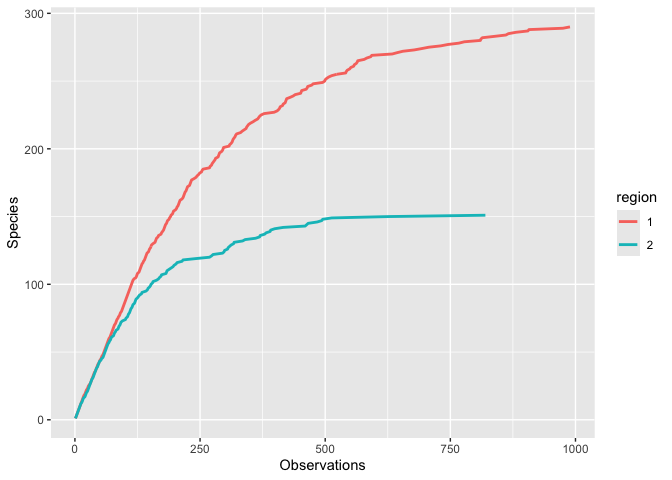
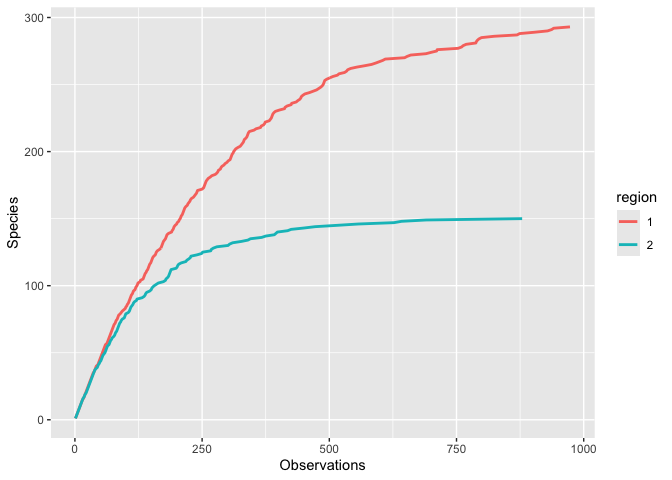
Code of conduct

diff --git a/CODE_OF_CONDUCT.md b/CODE_OF_CONDUCT.md
@@ -1,0 +1,126 @@
+# Contributor Covenant Code of Conduct
+
+## Our Pledge
+
+We as members, contributors, and leaders pledge to make participation in our
+community a harassment-free experience for everyone, regardless of age, body
+size, visible or invisible disability, ethnicity, sex characteristics, gender
+identity and expression, level of experience, education, socio-economic status,
+nationality, personal appearance, race, caste, color, religion, or sexual
+identity and orientation.
+
+We pledge to act and interact in ways that contribute to an open, welcoming,
+diverse, inclusive, and healthy community.
+
+## Our Standards
+
+Examples of behavior that contributes to a positive environment for our
+community include:
+
+* Demonstrating empathy and kindness toward other people
+* Being respectful of differing opinions, viewpoints, and experiences
+* Giving and gracefully accepting constructive feedback
+* Accepting responsibility and apologizing to those affected by our mistakes,
+  and learning from the experience
+* Focusing on what is best not just for us as individuals, but for the overall
+  community
+
+Examples of unacceptable behavior include:
+
+* The use of sexualized language or imagery, and sexual attention or advances of
+  any kind
+* Trolling, insulting or derogatory comments, and personal or political attacks
+* Public or private harassment
+* Publishing others' private information, such as a physical or email address,
+  without their explicit permission
+* Other conduct which could reasonably be considered inappropriate in a
+  professional setting
+
+## Enforcement Responsibilities
+
+Community leaders are responsible for clarifying and enforcing our standards of
+acceptable behavior and will take appropriate and fair corrective action in
+response to any behavior that they deem inappropriate, threatening, offensive,
+or harmful.
+
+Community leaders have the right and responsibility to remove, edit, or reject
+comments, commits, code, wiki edits, issues, and other contributions that are
+not aligned to this Code of Conduct, and will communicate reasons for moderation
+decisions when appropriate.
+
+## Scope
+
+This Code of Conduct applies within all community spaces, and also applies when
+an individual is officially representing the community in public spaces.
+Examples of representing our community include using an official e-mail address,
+posting via an official social media account, or acting as an appointed
+representative at an online or offline event.
+
+## Enforcement
+
+Instances of abusive, harassing, or otherwise unacceptable behavior may be
+reported to the community leaders responsible for enforcement at [email redacted]. 
+All complaints will be reviewed and investigated promptly and fairly.
+
+All community leaders are obligated to respect the privacy and security of the
+reporter of any incident.
+
+## Enforcement Guidelines
+
+Community leaders will follow these Community Impact Guidelines in determining
+the consequences for any action they deem in violation of this Code of Conduct:
+
+### 1. Correction
+
+**Community Impact**: Use of inappropriate language or other behavior deemed
+unprofessional or unwelcome in the community.
+
+**Consequence**: A private, written warning from community leaders, providing
+clarity around the nature of the violation and an explanation of why the
+behavior was inappropriate. A public apology may be requested.
+
+### 2. Warning
+
+**Community Impact**: A violation through a single incident or series of
+actions.
+
+**Consequence**: A warning with consequences for continued behavior. No
+interaction with the people involved, including unsolicited interaction with
+those enforcing the Code of Conduct, for a specified period of time. This
+includes avoiding interactions in community spaces as well as external channels
+like social media. Violating these terms may lead to a temporary or permanent
+ban.
+
+### 3. Temporary Ban
+
+**Community Impact**: A serious violation of community standards, including
+sustained inappropriate behavior.
+
+**Consequence**: A temporary ban from any sort of interaction or public
+communication with the community for a specified period of time. No public or
+private interaction with the people involved, including unsolicited interaction
+with those enforcing the Code of Conduct, is allowed during this period.
+Violating these terms may lead to a permanent ban.
+
+### 4. Permanent Ban
+
+**Community Impact**: Demonstrating a pattern of violation of community
+standards, including sustained inappropriate behavior, harassment of an
+individual, or aggression toward or disparagement of classes of individuals.
+
+**Consequence**: A permanent ban from any sort of public interaction within the
+community.
+
+## Attribution
+
+This Code of Conduct is adapted from the [Contributor Covenant][homepage],
+version 2.1, available at
+<https://www.contributor-covenant.org/version/2/1/code_of_conduct.html>.
+
+Community Impact Guidelines were inspired by
+[Mozilla's code of conduct enforcement ladder][https://github.com/mozilla/inclusion].
+
+For answers to common questions about this code of conduct, see the FAQ at
+<https://www.contributor-covenant.org/faq>. Translations are available at <https://www.contributor-covenant.org/translations>.
+
+[homepage]: https://www.contributor-covenant.org

diff --git a/README.md b/README.md
@@ -74,3 +74,10 @@ You can use the normal ggplot aesthetics too!
 ```
 
 <img src="man/figures/README-unnamed-chunk-3-1.png" alt="" width="100%" />
+
+## Code of Conduct
+
+Please note that the ggspeciesaccumulation project is released with a
+[Contributor Code of
+Conduct](https://contributor-covenant.org/version/2/1/CODE_OF_CONDUCT.html).
+By contributing to this project, you agree to abide by its terms.